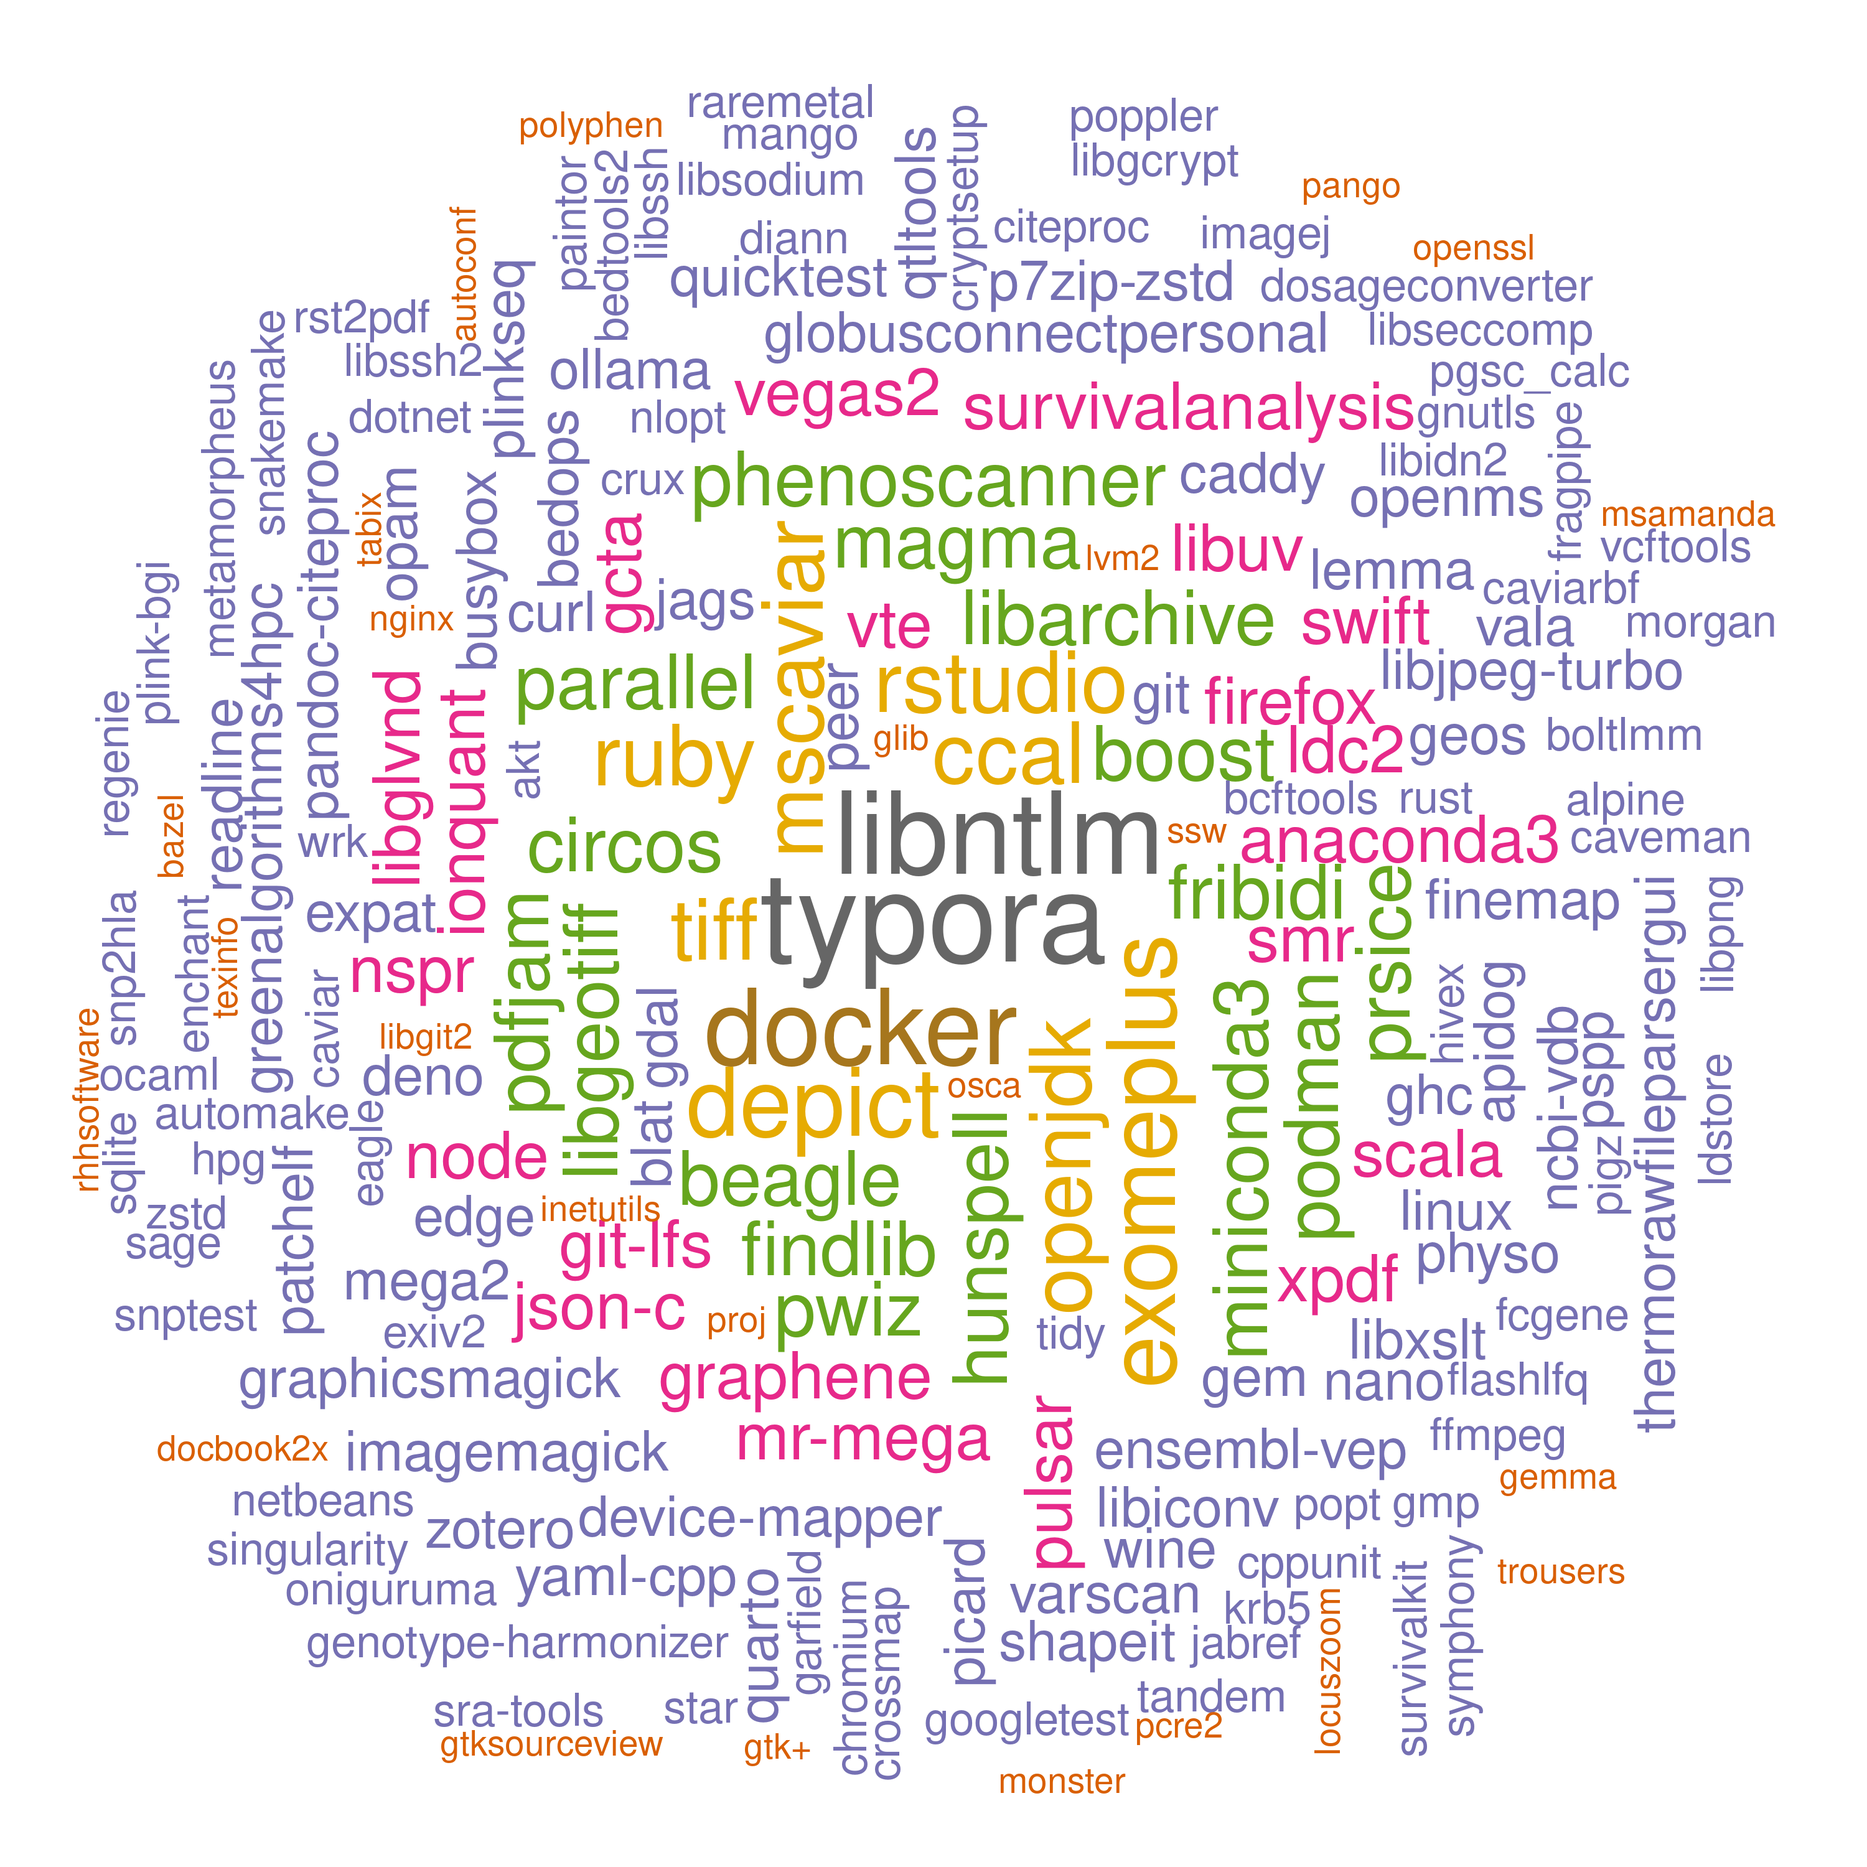
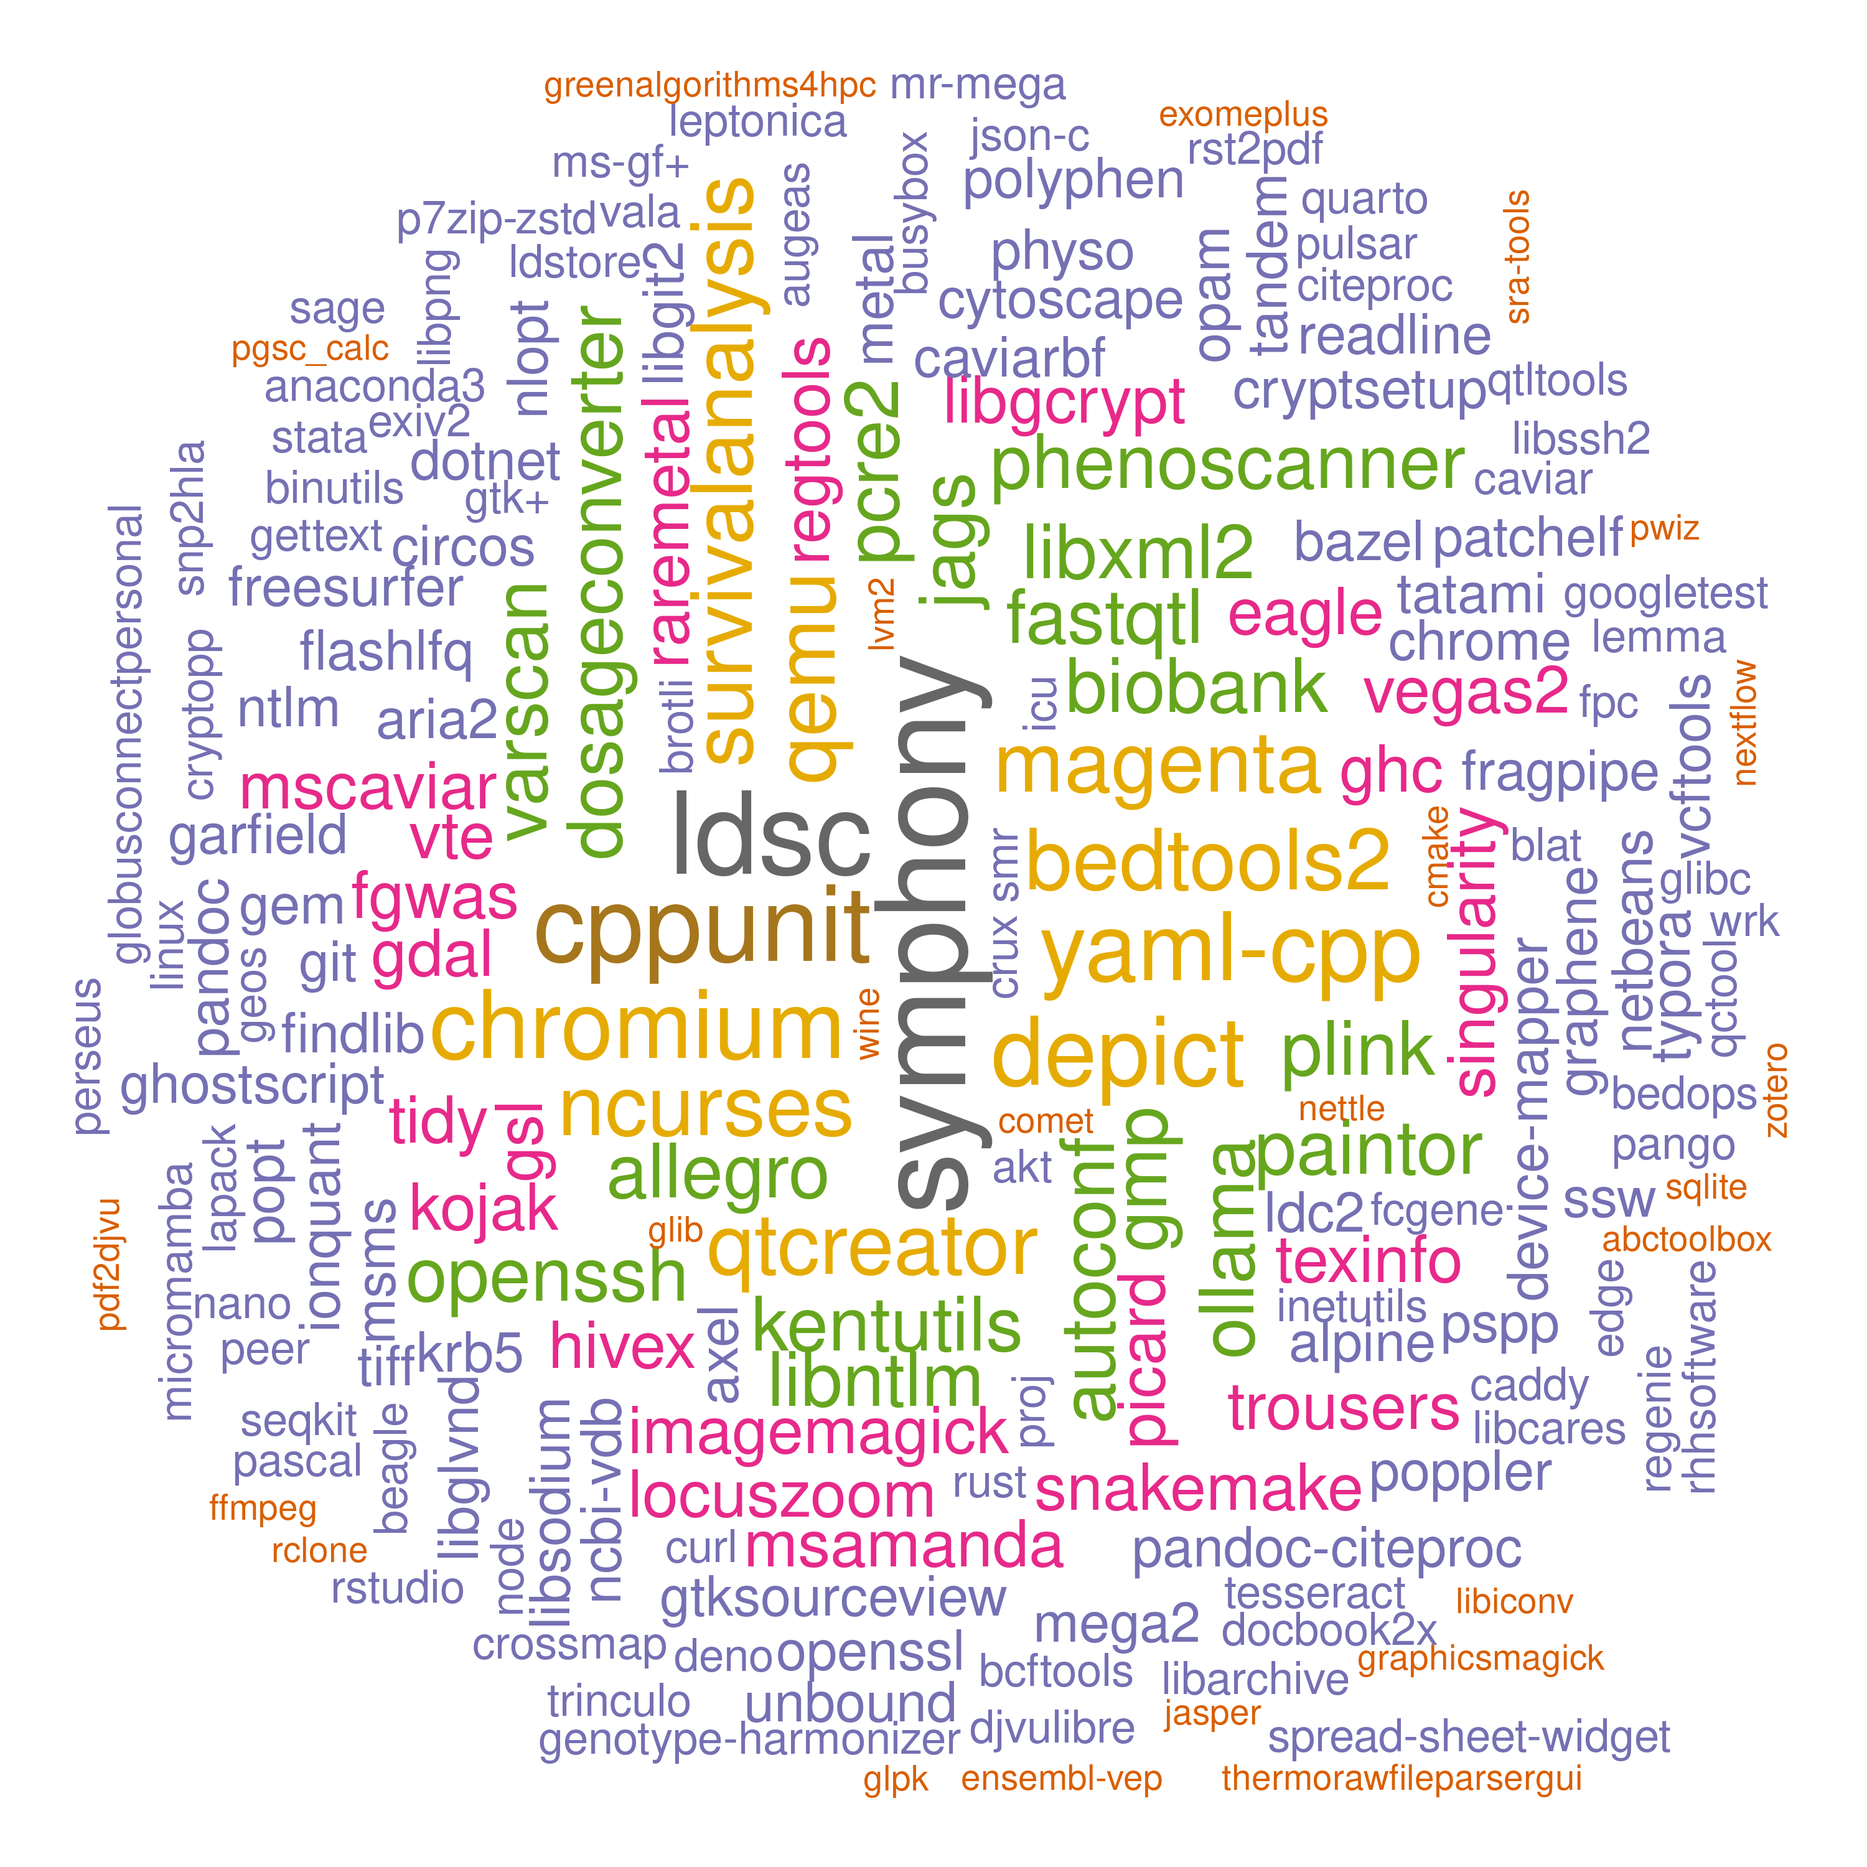
./

Changed region(s): [[0.031, 0.031, 0.961, 0.961]]

diff --git a/systems/ceuadmin.md b/systems/ceuadmin.md
@@ -19,75 +19,75 @@ The current list is as follows,
   [5] "Anaconda3"              "annovar"                "apidog"                 "aria2"
   [9] "augeas"                 "autoconf"               "automake"               "axel"
  [13] "bazel"                  "bcftools"               "Beagle"                 "bedops"
- [17] "bedtools2"              "bgen"                   "biobank"                "blat"
- [21] "boltlmm"                "boost"                  "brotli"                 "busybox"
- [25] "caddy"                  "CaVEMaN"                "CAVIAR"                 "CAVIARBF"
- [29] "ccal"                   "chrome"                 "chromium"               "circos"
- [33] "citeproc"               "cmake"                  "comet"                  "cppunit"
- [37] "crossmap"               "crux"                   "cryptopp"               "cryptsetup"
- [41] "curl"                   "Cytoscape"              "deno"                   "DEPICT"
- [45] "device-mapper"          "diann"                  "DjVuLibre"              "docbook2X"
- [49] "docker"                 "DosageConverter"        "dotnet"                 "Eagle"
- [53] "edge"                   "enchant"                "ensembl-vep"            "exiv2"
- [57] "exomeplus"              "expat"                  "FastQTL"                "fcGENE"
- [61] "ffmpeg"                 "fgwas"                  "findlib"                "finemap"
- [65] "firefox"                "FlashLFQ"               "fossil"                 "fpc"
- [69] "FragPipe"               "fraposa_pgsc"           "freesurfer"             "fribidi"
- [73] "GARFIELD"               "gatk"                   "gcta"                   "gdal"
- [77] "gdc"                    "geany"                  "GEM"                    "GEMMA"
- [81] "Genotype-Harmonizer"    "geos"                   "gettext"                "gh"
- [85] "ghc"                    "ghostscript"            "git"                    "git-extras"
- [89] "GitKraken"              "git-lfs"                "glib"                   "glibc"
- [93] "globusconnectpersonal"  "glpk"                   "gmp"                    "gnutls"
- [97] "go"                     "googletest"             "graphene"               "GraphicsMagick"
-[101] "GreenAlgorithms4HPC"    "gsl"                    "gtk+"                   "gtksourceview"
-[105] "gtool"                  "hivex"                  "hpg"                    "htslib"
-[109] "hunspell"               "icu"                    "ImageJ"                 "ImageMagick"
-[113] "impute"                 "inetutils"              "IonQuant"               "JabRef"
-[117] "JAGS"                   "jasper"                 "jq"                     "json-c"
-[121] "KentUtils"              "KING"                   "kojak"                  "krb5"
-[125] "lapack"                 "ldc2"                   "ldsc"                   "LDstore"
-[129] "LEMMA"                  "leptonica"              "libarchive"             "libcares"
-[133] "libgcrypt"              "libgeotiff"             "libgit2"                "libglvnd"
-[137] "libiconv"               "libidn2"                "libjpeg-turbo"          "libntlm"
-[141] "libpng"                 "libseccomp"             "libsodium"              "libssh"
-[145] "libssh2"                "libuv"                  "libxml2"                "libxslt"
-[149] "linux"                  "locuszoom"              "LVM2"                   "MAGENTA"
-[153] "magma"                  "Mango"                  "MaxQuant"               "Mega2"
-[157] "metal"                  "MetaMorpheus"           "micromamba"             "Miniconda3"
-[161] "MONSTER"                "MORGAN"                 "MR-MEGA"                "msamanda"
-[165] "MsCAVIAR"               "MSFragger"              "MS-GF+"                 "msms"
-[169] "nano"                   "ncbi-vdb"               "ncurses"                "netbeans"
-[173] "nettle"                 "nextflow"               "nginx"                  "NLopt"
-[177] "node"                   "nspr"                   "ntlm"                   "ocaml"
-[181] "ollama"                 "oniguruma"              "opam"                   "openjdk"
-[185] "OpenMS"                 "openssh"                "openssl"                "osca"
-[189] "p7zip-zstd"             "PAINTOR"                "pandoc"                 "pandoc-citeproc"
-[193] "pango"                  "parallel"               "Pascal"                 "patchelf"
-[197] "pcre2"                  "pdf2djvu"               "pdfjam"                 "peer"
-[201] "Perseus"                "pgsc_calc"              "phenoscanner"           "PhySO"
-[205] "picard"                 "pigz"                   "plink"                  "plink-bgi"
-[209] "plinkseq"               "podman"                 "PoGo"                   "polyphen"
-[213] "poppler"                "popt"                   "proj"                   "PRSice"
-[217] "pspp"                   "pulsar"                 "PWCoCo"                 "pwiz"
-[221] "qctool"                 "qemu"                   "qpdf"                   "qt"
-[225] "qtcreator"              "QTLtools"               "quarto"                 "quicktest"
-[229] "R"                      "raremetal"              "rclone"                 "readline"
-[233] "regenie"                "regtools"               "RHHsoftware"            "rst2pdf"
-[237] "rstudio"                "rtmpdump"               "ruby"                   "rust"
-[241] "sage"                   "samtools"               "Scala"                  "seqkit"
-[245] "shapeit"                "singularity"            "SMR"                    "snakemake"
-[249] "SNP2HLA"                "snptest"                "spread-sheet-widget"    "spyder"
-[253] "sqlite"                 "sra-tools"              "sshpass"                "ssw"
-[257] "STAR"                   "stata"                  "SurvivalAnalysis"       "SurvivalKit"
-[261] "Swift"                  "SYMPHONY"               "tabix"                  "tandem"
-[265] "tatami"                 "tesseract"              "texinfo"                "ThermoRawFileParser"
-[269] "ThermoRawFileParserGUI" "thunderbird"            "tidy"                   "tiff"
-[273] "trinculo"               "trousers"               "Typora"                 "unbound"
-[277] "vala"                   "VarScan"                "vcftools"               "VEGAS2"
-[281] "verifyBamID"            "VSCode"                 "VSCodium"               "vte"
-[285] "wine"                   "wrk"                    "xpdf"                   "yaml-cpp"
-[289] "Zotero"                 "zstd"
+ [17] "bedtools2"              "bgen"                   "binutils"               "biobank"
+ [21] "blat"                   "boltlmm"                "boost"                  "brotli"
+ [25] "busybox"                "caddy"                  "CaVEMaN"                "CAVIAR"
+ [29] "CAVIARBF"               "ccal"                   "chrome"                 "chromium"
+ [33] "circos"                 "citeproc"               "cmake"                  "comet"
+ [37] "cppunit"                "crossmap"               "crux"                   "cryptopp"
+ [41] "cryptsetup"             "curl"                   "Cytoscape"              "deno"
+ [45] "DEPICT"                 "device-mapper"          "diann"                  "DjVuLibre"
+ [49] "docbook2X"              "docker"                 "DosageConverter"        "dotnet"
+ [53] "Eagle"                  "edge"                   "enchant"                "ensembl-vep"
+ [57] "exiv2"                  "exomeplus"              "expat"                  "FastQTL"
+ [61] "fcGENE"                 "ffmpeg"                 "fgwas"                  "findlib"
+ [65] "finemap"                "firefox"                "FlashLFQ"               "fossil"
+ [69] "fpc"                    "FragPipe"               "fraposa_pgsc"           "freesurfer"
+ [73] "fribidi"                "GARFIELD"               "gatk"                   "gcta"
+ [77] "gdal"                   "gdc"                    "geany"                  "GEM"
+ [81] "GEMMA"                  "Genotype-Harmonizer"    "geos"                   "gettext"
+ [85] "gh"                     "ghc"                    "ghostscript"            "git"
+ [89] "git-extras"             "GitKraken"              "git-lfs"                "glib"
+ [93] "glibc"                  "globusconnectpersonal"  "glpk"                   "gmp"
+ [97] "gnutls"                 "go"                     "googletest"             "graphene"
+[101] "GraphicsMagick"         "GreenAlgorithms4HPC"    "gsl"                    "gtk+"
+[105] "gtksourceview"          "gtool"                  "hivex"                  "hpg"
+[109] "htslib"                 "hunspell"               "icu"                    "ImageJ"
+[113] "ImageMagick"            "impute"                 "inetutils"              "IonQuant"
+[117] "JabRef"                 "JAGS"                   "jasper"                 "jq"
+[121] "json-c"                 "KentUtils"              "KING"                   "kojak"
+[125] "krb5"                   "lapack"                 "ldc2"                   "ldsc"
+[129] "LDstore"                "LEMMA"                  "leptonica"              "libarchive"
+[133] "libcares"               "libgcrypt"              "libgeotiff"             "libgit2"
+[137] "libglvnd"               "libiconv"               "libidn2"                "libjpeg-turbo"
+[141] "libntlm"                "libpng"                 "libseccomp"             "libsodium"
+[145] "libssh"                 "libssh2"                "libuv"                  "libxml2"
+[149] "libxslt"                "linux"                  "locuszoom"              "LVM2"
+[153] "MAGENTA"                "magma"                  "Mango"                  "MaxQuant"
+[157] "Mega2"                  "metal"                  "MetaMorpheus"           "micromamba"
+[161] "Miniconda3"             "MONSTER"                "MORGAN"                 "MR-MEGA"
+[165] "msamanda"               "MsCAVIAR"               "MSFragger"              "MS-GF+"
+[169] "msms"                   "nano"                   "ncbi-vdb"               "ncurses"
+[173] "netbeans"               "nettle"                 "nextflow"               "nginx"
+[177] "NLopt"                  "node"                   "nspr"                   "ntlm"
+[181] "ocaml"                  "ollama"                 "oniguruma"              "opam"
+[185] "openjdk"                "OpenMS"                 "openssh"                "openssl"
+[189] "osca"                   "p7zip-zstd"             "PAINTOR"                "pandoc"
+[193] "pandoc-citeproc"        "pango"                  "parallel"               "Pascal"
+[197] "patchelf"               "pcre2"                  "pdf2djvu"               "pdfjam"
+[201] "peer"                   "Perseus"                "pgsc_calc"              "phenoscanner"
+[205] "PhySO"                  "picard"                 "pigz"                   "plink"
+[209] "plink-bgi"              "plinkseq"               "podman"                 "PoGo"
+[213] "polyphen"               "poppler"                "popt"                   "proj"
+[217] "PRSice"                 "pspp"                   "pulsar"                 "PWCoCo"
+[221] "pwiz"                   "qctool"                 "qemu"                   "qpdf"
+[225] "qt"                     "qtcreator"              "QTLtools"               "quarto"
+[229] "quicktest"              "R"                      "raremetal"              "rclone"
+[233] "readline"               "regenie"                "regtools"               "RHHsoftware"
+[237] "rst2pdf"                "rstudio"                "rtmpdump"               "ruby"
+[241] "rust"                   "sage"                   "samtools"               "Scala"
+[245] "seqkit"                 "shapeit"                "singularity"            "SMR"
+[249] "snakemake"              "SNP2HLA"                "snptest"                "spread-sheet-widget"
+[253] "spyder"                 "sqlite"                 "sra-tools"              "sshpass"
+[257] "ssw"                    "STAR"                   "stata"                  "SurvivalAnalysis"
+[261] "SurvivalKit"            "Swift"                  "SYMPHONY"               "tabix"
+[265] "tandem"                 "tatami"                 "tesseract"              "texinfo"
+[269] "ThermoRawFileParser"    "ThermoRawFileParserGUI" "thunderbird"            "tidy"
+[273] "tiff"                   "trinculo"               "trousers"               "Typora"
+[277] "unbound"                "vala"                   "VarScan"                "vcftools"
+[281] "VEGAS2"                 "verifyBamID"            "VSCode"                 "VSCodium"
+[285] "vte"                    "wine"                   "wrk"                    "xpdf"
+[289] "yaml-cpp"               "Zotero"                 "zstd"
 ```
 
 These are wrapped up as :star::star::star: **[modules](https://modules.readthedocs.io/en/latest/index.html)** :star::star::star:.

diff --git a/systems/setup.md b/systems/setup.md
@@ -378,6 +378,7 @@ All entries are ordered chronologically.
 | 2025-03-16  | qt/6.8.2                         | Generic              |
 | ""          | Anaconda3/2024.10-1              | Generic[^Anaconda3]  |
 | 2025-03-17  | micromamba/2.0.7                 | Generic              |
+| ""          | binutils/2.44                    | Generic              |
 
 \* CEU or approved users only.
 
